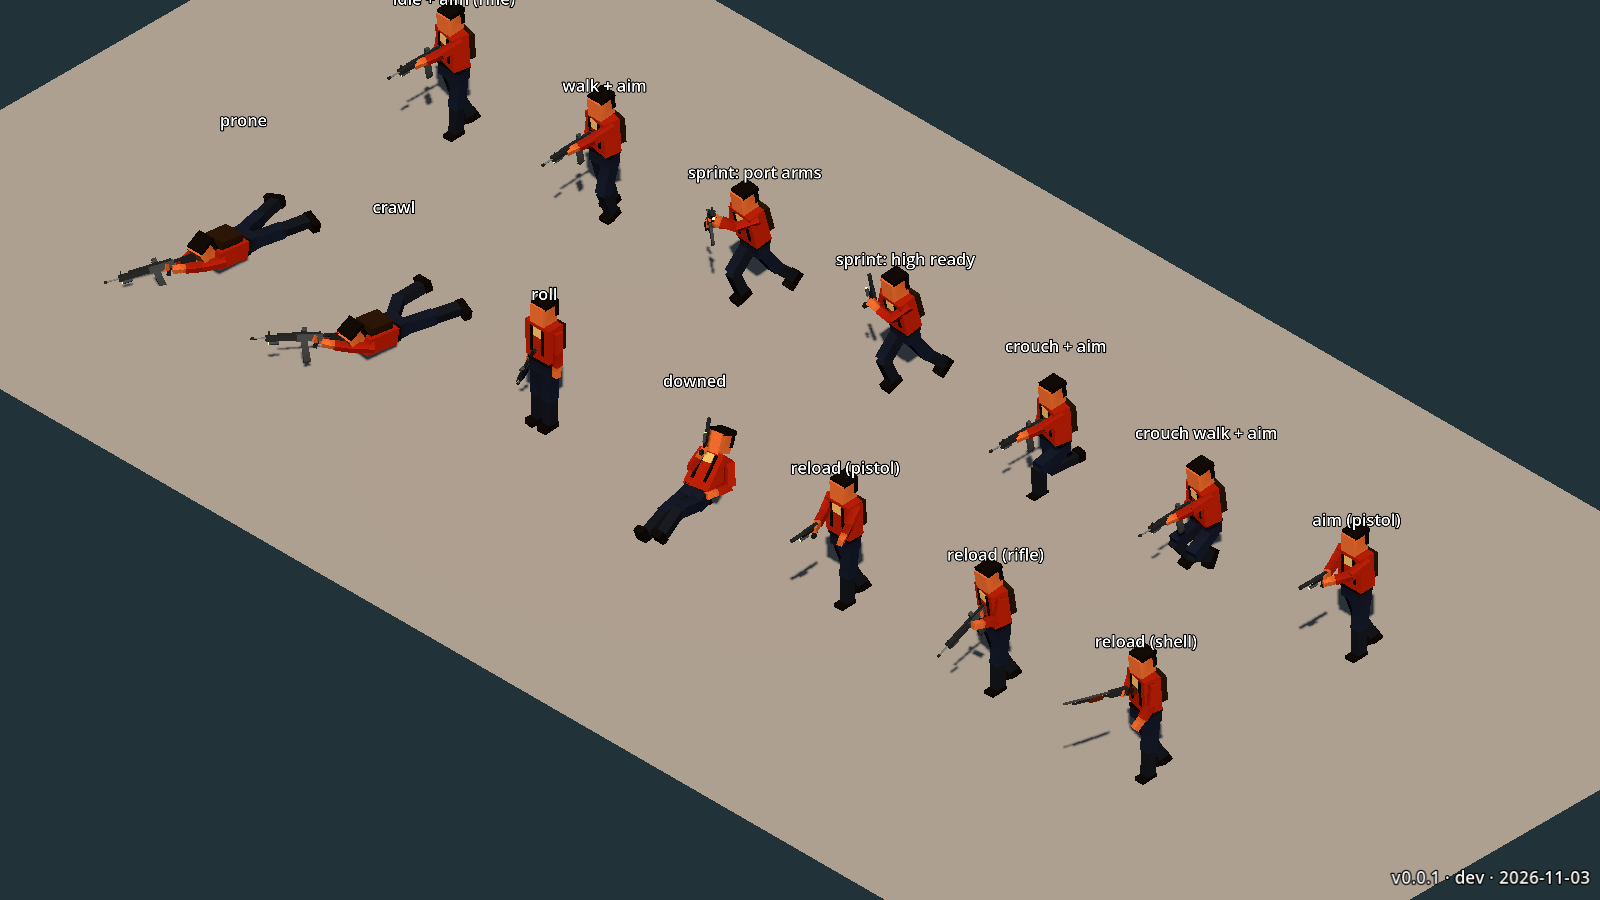
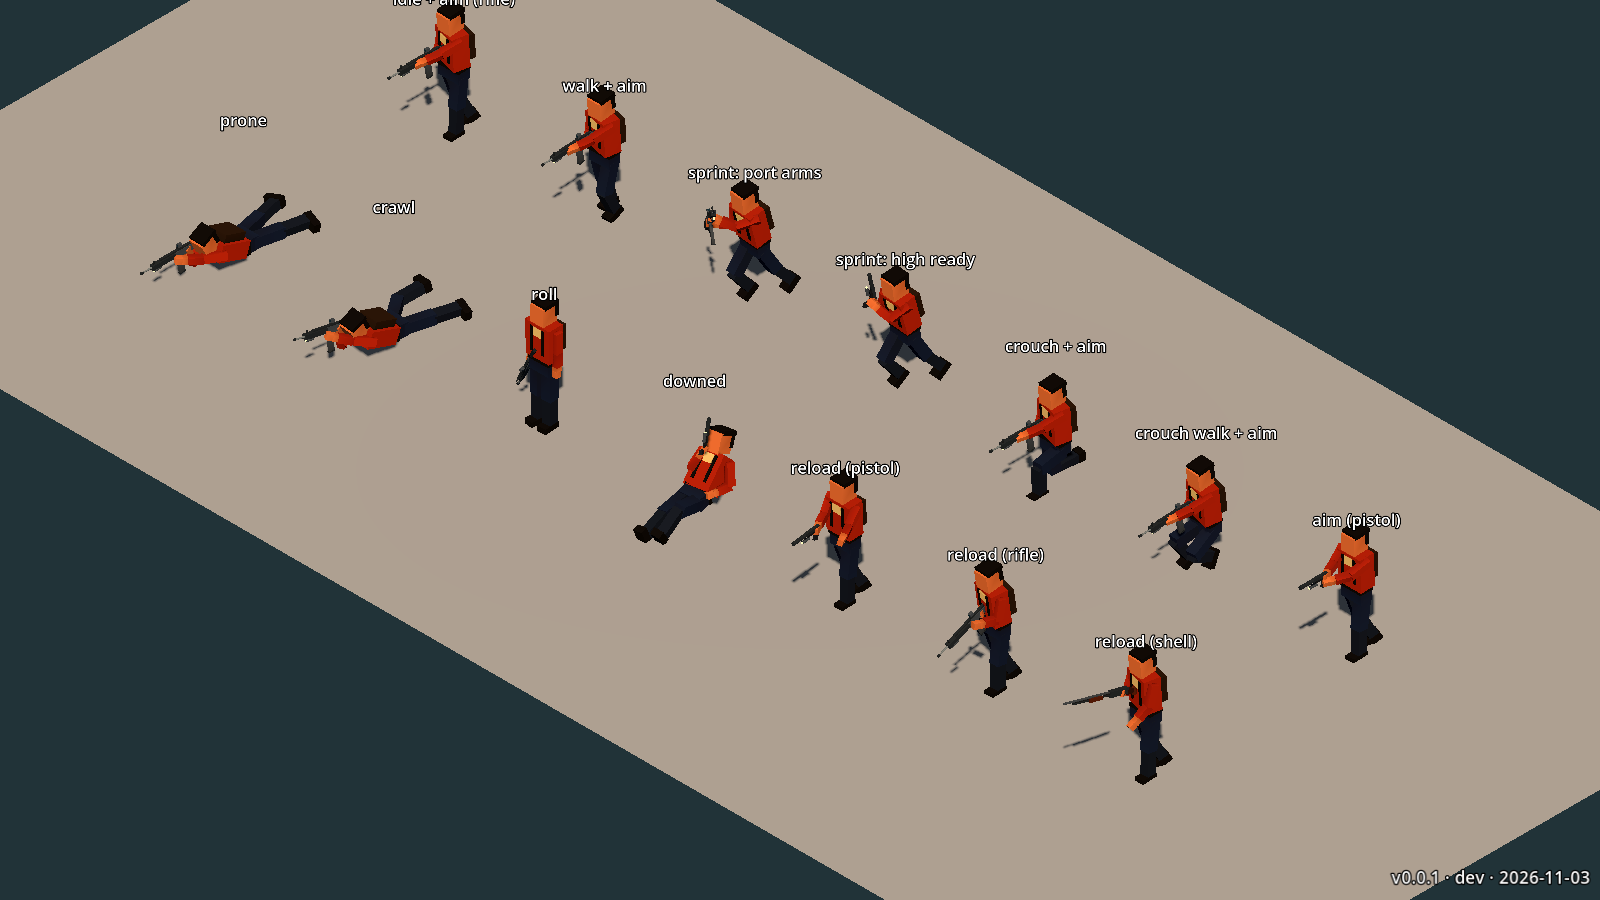
Survivor prone: propped on the elbows, stock in the shoulder
J: the prone hold still looked odd. The chest is raised on both elbows, the right hand holds the grip 0.28 m
ahead of the shoulder (angles solved by FK), and prone / crawl hold the gun with a grip measured from
prone_idle instead of the standing aim's.

diff --git a/tools/blender/kit_survivor.py b/tools/blender/kit_survivor.py
@@ -189,20 +189,24 @@ PRONE_HIP = 0.16
 
 
 def _prone(p, t=0.0, crawl=0.0):
-    """Face down, head toward the aim, both hands forward on the gun."""
+    """Prone to shoot (J 2026-11-03): face down, propped on both elbows, chest up, the stock in the right
+    shoulder and the head behind the sights. The left hand comes from the IK."""
     p["pelvis"] = (math.pi / 2, 0.0, 0.05 * crawl * math.sin(t))
-    p["torso"] = (-0.12, 0.0, 0.08 * crawl * math.sin(t))
-    p["head"] = (-0.9, 0.0, 0.0)  # looks ahead along the ground
+    p["torso"] = (-0.32, 0.0, 0.08 * crawl * math.sin(t))  # chest raised on the elbows
+    p["head"] = (-0.75, 0.0, 0.0)  # looks ahead along the barrel
     # Legs apart (ry spreads, rz twists), knees drawn up sideways when crawling; feet turned so the toes point
     # out and the insides of the boots lie on the floor (J 2026-11-03).
     p["thigh_l"] = (0.0, -0.22 - 0.5 * crawl * max(0.0, math.sin(t)), 0.0)
     p["thigh_r"] = (0.0, 0.22 + 0.5 * crawl * max(0.0, -math.sin(t)), 0.0)
     p["shin_l"] = (0.9 * crawl * max(0.0, math.sin(t)), 0.0, 1.35)
     p["shin_r"] = (0.9 * crawl * max(0.0, -math.sin(t)), 0.0, -1.35)
-    p["arm_l"] = (-2.6 - 0.3 * crawl * math.sin(t), 0.0, -0.3)
-    p["arm_r"] = (-2.7 + 0.3 * crawl * math.sin(t), 0.0, 0.25)
-    p["fore_l"] = (-0.5, 0.0, 0.0)
-    p["fore_r"] = (-0.6, 0.0, 0.0)
+    # Upper arms down to the elbows on the floor, a little ahead of and outside the shoulders; forearms up
+    # and in, so the right hand holds the grip with the stock in the shoulder
+    # (solved by FK: elbow 7 cm off the floor just ahead of the shoulder, grip hand 0.28 m ahead of it)
+    p["arm_l"] = (-1.9 - 0.3 * crawl * math.sin(t), -0.6, 0.0)
+    p["arm_r"] = (-1.9 + 0.3 * crawl * math.sin(t), 0.6, 0.0)
+    p["fore_l"] = (-2.05, 0.0, 0.4)
+    p["fore_r"] = (-2.05, 0.0, -0.4)
 
 
 def prone_idle(u):

diff --git a/docs/PHASE1_RESULTS.md b/docs/PHASE1_RESULTS.md
@@ -13,7 +13,7 @@ Live: `?spike=poses` (every clip, labelled; Q / E turn, wheel zooms) and the pla
 | Clips | hand-keyed: idle, walk, run, crouch idle / walk, prone, crawl, roll, downed; aim pistol / rifle, sprint high ready (pistol, SMG) and port arms (long guns), reload pistol / rifle / shell |
 | Layers | `SurvivorView`: AnimationTree, legs' clip × arms' clip through a Blend2 bone filter; moving clips scale to the speed (backwards when backing away); reloads stretch to the gun's reload time |
 | Gun | on `hand_r`; the hold per clip is measured from the pose, so it stays level in the aim and points up / across the chest when sprinting |
-| Pose fixes (J) | standing: right foot a step back and turned out; crouch = kneeling (right knee on the floor, left knee up), crouch walk stays a squat; prone: legs apart, toes turned out |
+| Pose fixes (J) | standing: right foot a step back and turned out; crouch = kneeling (right knee on the floor, left knee up), crouch walk stays a squat; prone: legs apart, toes turned out; prone aim propped on both elbows, chest up, the stock in the shoulder and the gun level at head height (arm angles solved by FK), with its own measured hold |
 | Left hand | J: "แขนซ้ายไม่จับปืนเลย" → `LeftHandIK` (SkeletonModifier3D, two-bone IK) puts the left palm on the gun's support point (handguard, pump, fore-end; a pistol: the right hand), within 6 cm on all four guns; fades out for reloads, roll, downed |
 | Picture | `docs/art/09_survivor_poses.png` |
 | Not checked | Arc FPS with a skinned body; stances are not on keys yet (A3) |
